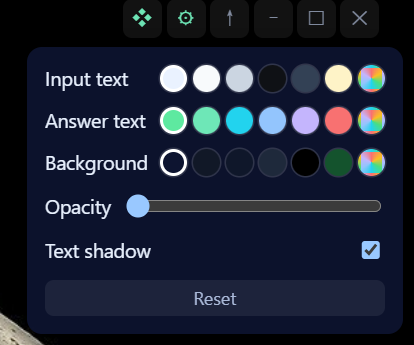
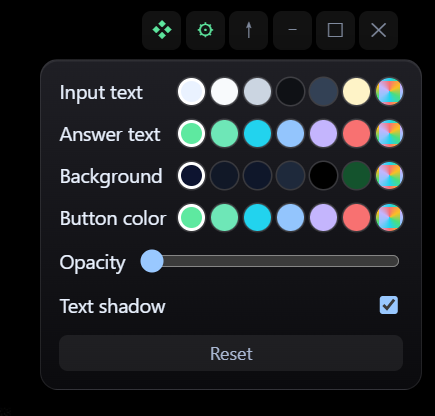
refactor(shell): drop the unreliable native color picker from appearance settings; update settings screenshot

diff --git a/shell/preload.js b/shell/preload.js
@@ -70,8 +70,8 @@ function injectControls() {
   // web reflects on <html lang> (zh -> "zh-CN", en -> "en"). Registering a
   // label applies it immediately and re-applies it whenever lang changes.
   const I18N = {
-    zh: { minimal: '极简模式', toggleMinimal: '切换极简模式', settings: '设置', pin: '置顶', minimize: '最小化', maximize: '最大化', restore: '还原', close: '关闭', inputText: '输入文字', answerText: '回答文字', bgColor: '背景颜色', btnColor: '按钮颜色', opacity: '透明度', shadow: '文字阴影', reset: '恢复默认', custom: '自定义' },
-    en: { minimal: 'Minimal mode', toggleMinimal: 'Toggle minimal mode', settings: 'Settings', pin: 'Always on top', minimize: 'Minimize', maximize: 'Maximize', restore: 'Restore down', close: 'Close', inputText: 'Input text', answerText: 'Answer text', bgColor: 'Background', btnColor: 'Button color', opacity: 'Opacity', shadow: 'Text shadow', reset: 'Reset', custom: 'Custom' },
+    zh: { minimal: '极简模式', toggleMinimal: '切换极简模式', settings: '设置', pin: '置顶', minimize: '最小化', maximize: '最大化', restore: '还原', close: '关闭', inputText: '输入文字', answerText: '回答文字', bgColor: '背景颜色', btnColor: '按钮颜色', opacity: '透明度', shadow: '文字阴影', reset: '恢复默认' },
+    en: { minimal: 'Minimal mode', toggleMinimal: 'Toggle minimal mode', settings: 'Settings', pin: 'Always on top', minimize: 'Minimize', maximize: 'Maximize', restore: 'Restore down', close: 'Close', inputText: 'Input text', answerText: 'Answer text', bgColor: 'Background', btnColor: 'Button color', opacity: 'Opacity', shadow: 'Text shadow', reset: 'Reset' },
   };
   const currentLang = () => ((document.documentElement.lang || '').toLowerCase().startsWith('zh') ? 'zh' : 'en');
   const labels = [];
@@ -143,9 +143,9 @@ function injectControls() {
   close.addEventListener('mouseleave', () => { close.style.background = 'rgba(255,255,255,0.07)'; close.style.color = 'rgba(205,222,255,0.6)'; });
 
   // Settings: text colors + background + shadow, persisted to userData via IPC.
-  // Colors are preset swatches (one click applies) plus a per-row "custom"
-  // swatch that opens the native picker. The values map onto the `--f-ink` /
-  // `--f-accent` / `--f-bg` / `--f-shadow` custom properties skin.css reads.
+  // Colors are preset swatches (one click applies). The values map onto the
+  // `--f-ink` / `--f-accent` / `--f-bg` / `--f-btn` / `--f-shadow` custom
+  // properties skin.css reads.
   const DEFAULT_INK = '#eaf2ff';
   const DEFAULT_ACCENT = '#5ee9a0';
   const DEFAULT_BG = '#0d1430';
@@ -156,7 +156,6 @@ function injectControls() {
   const ACCENT_PRESETS = ['#5ee9a0', '#6ee7b7', '#22d3ee', '#93c5fd', '#c4b5fd', '#f87171'];
   const BG_PRESETS = ['#0d1430', '#111827', '#0f172a', '#1e293b', '#000000', '#14532d'];
   const BTN_PRESETS = ['#5ee9a0', '#6ee7b7', '#22d3ee', '#93c5fd', '#c4b5fd', '#f87171'];
-  const PRESETS = { ink: INK_PRESETS, accent: ACCENT_PRESETS, bg: BG_PRESETS, btn: BTN_PRESETS };
   let settings = {
     ink: savedSettings.ink ?? DEFAULT_INK,
     accent: savedSettings.accent ?? DEFAULT_ACCENT,
@@ -210,24 +209,6 @@ function injectControls() {
       sw.style.cssText = 'box-sizing:border-box;width:18px;height:18px;border-radius:50%;border:2px solid transparent;background:' + color + ';cursor:pointer;padding:0;box-shadow:0 0 0 1px rgba(255,255,255,0.15);';
       strip.appendChild(sw);
     });
-    // "Custom" swatch: a native color input laid invisible over a rainbow dot,
-    // so the picker opens at this on-screen spot (not an off-screen hidden input).
-    const custom = document.createElement('span');
-    custom.dataset.kind = kind;
-    custom.dataset.custom = '1';
-    custom.style.cssText = 'box-sizing:border-box;position:relative;width:18px;height:18px;border-radius:50%;border:2px solid transparent;background:conic-gradient(#f87171,#fbbf24,#4ade80,#22d3ee,#93c5fd,#c4b5fd,#f87171);box-shadow:0 0 0 1px rgba(255,255,255,0.15);';
-    const customPicker = document.createElement('input');
-    customPicker.type = 'color';
-    customPicker.style.cssText = 'position:absolute;inset:-2px;opacity:0;cursor:pointer;border:none;padding:0;';
-    regLabel(customPicker, 'custom', 'title');
-    customPicker.addEventListener('change', () => {
-      settings[kind] = customPicker.value;
-      highlightAll();
-      applySettings();
-      saveSettings();
-    });
-    custom.appendChild(customPicker);
-    strip.appendChild(custom);
     row.append(name, strip);
     return row;
   };
@@ -266,10 +247,7 @@ function injectControls() {
   const settingsBtn = document.getElementById('f-settings');
   const highlightAll = () => {
     settingsPanel.querySelectorAll('[data-kind]').forEach((sw) => {
-      const active = sw.dataset.custom === '1'
-        ? !PRESETS[sw.dataset.kind].includes(settings[sw.dataset.kind])
-        : sw.dataset.color === settings[sw.dataset.kind];
-      sw.style.borderColor = active ? '#fff' : 'transparent';
+      sw.style.borderColor = sw.dataset.color === settings[sw.dataset.kind] ? '#fff' : 'transparent';
     });
   };
   const syncInputs = () => {
